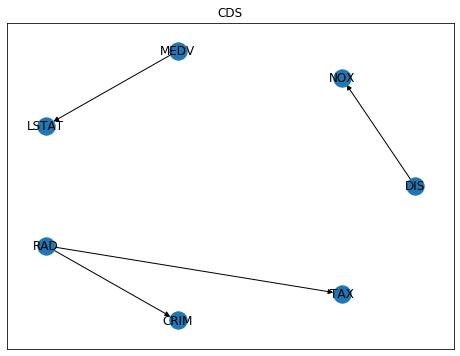
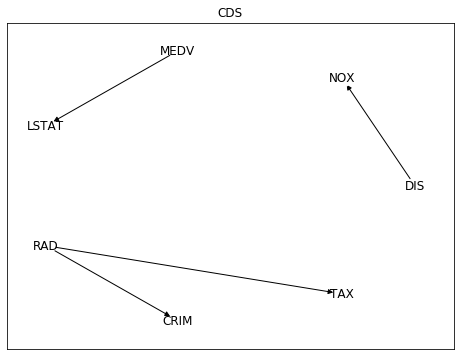
Update img/cdt_experiment* for clarity

diff --git a/index.html b/index.html
@@ -54,10 +54,10 @@
         <li>
           <ul>
             <li class="nav-item">
-              <a class="nav-link js-scroll-trigger" href="#linear-models">Linear models</a>
+              <a class="nav-link js-scroll-trigger" href="#causal-inference">Causal inference</a>
             </li>
             <li class="nav-item">
-              <a class="nav-link js-scroll-trigger" href="#causal-inference">Causal inference</a>
+              <a class="nav-link js-scroll-trigger" href="#linear-models">Linear models</a>
             </li>
           </ul>
         </li>
@@ -115,7 +115,7 @@
             </ul>
             <p class="lead mb-5">I expect models being wrong, but their assumptions explicit.
             </p>
-            <p><i>Last update</i>: <a href="#causal-inference">Uncool Data Science: No free lunch in automatic causal discovery</a><sup><small>(20/9/2020)</small></sup></p>
+            <p><i>Last update</i>: <a href="#causal-discovery">Uncool Data Science: No free lunch in automatic causal discovery</a><sup><small>(20/9/2020)</small></sup></p>
             <p>Moreover <a href="#covid19">COVID-19 sections</a>, with:
             </p>
             <ul>
@@ -169,7 +169,8 @@
 
             <h3 class="mb-3">Uncool Data Science</h3>
 
-            <div id="causal-inference" class="subheading mb-3">No free lunch in automatic causal discovery</div>
+            <div id="causal-inference">
+            <div id="causal-discovery" class="subheading mb-3">No free lunch in automatic causal discovery</div>
 
             <h6>(20/9/2020)</h6>
 
@@ -236,7 +237,7 @@ as the regression "loss function".
               Spoiler: the first results were a little disappointing.
             </p>
             <figure>
-              <img src="img/cdt_experiment1c.png" alt="causal discovery with cdt and boston dataset" style="border:1px solid black; width:80%;margin:auto;display:block">
+              <img src="img/cdt_experiment1.png" alt="causal discovery with cdt and boston dataset" style="border:1px solid black; width:80%;margin:auto;display:block">
               <figcaption style="text-align:center" >
                 <small>Source: <a href="https://github.com/muoten/causal-discovery-playground/blob/master/boston_dataset_causal_inference_playground.ipynb">
                     https://github.com/muoten/causal-discovery-playground
@@ -292,7 +293,7 @@ as the regression "loss function".
               </a>
             </p>
 
-
+          </div>
             <br/>
             <hr/>
             <!--
